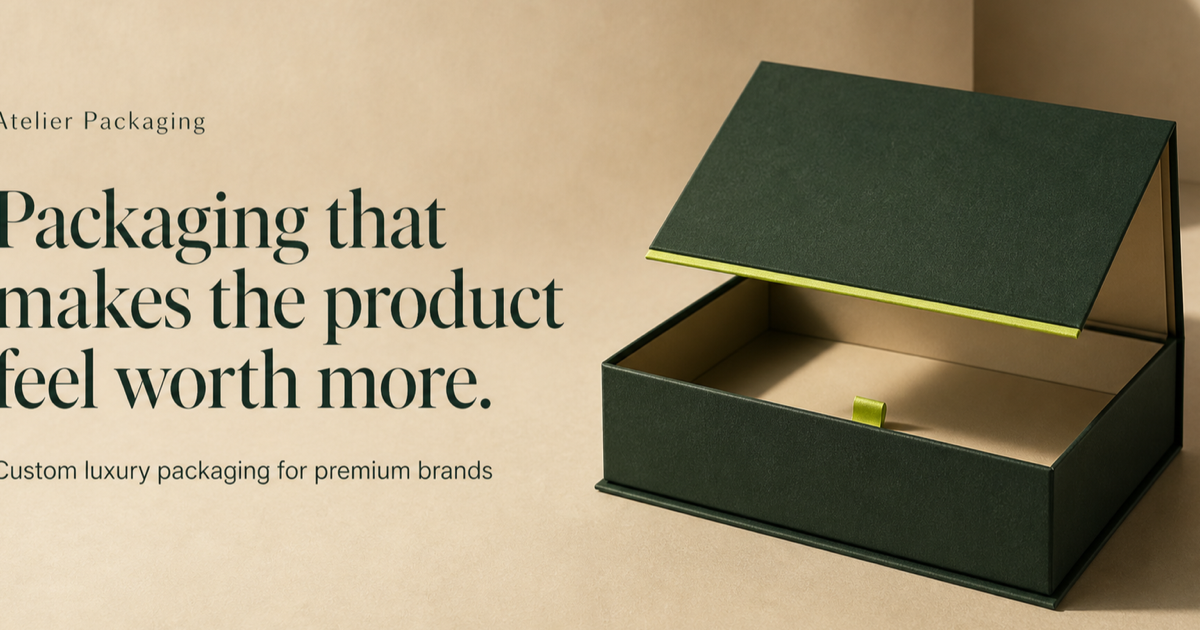
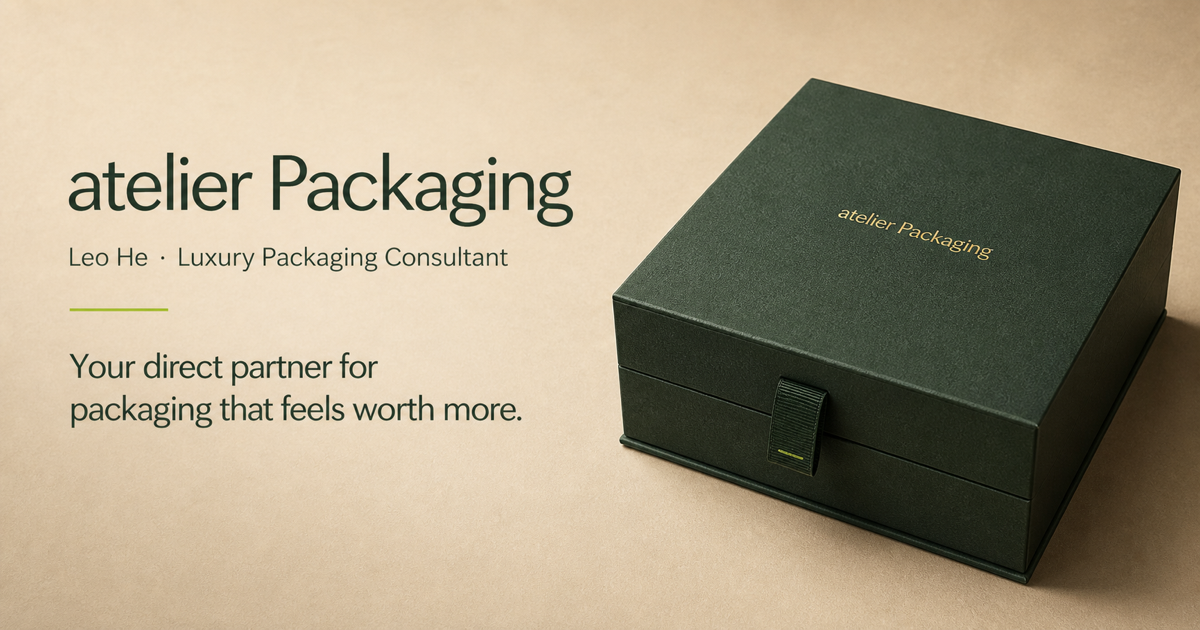
Personalize site for Leo He and add work showcase

diff --git a/app/page.tsx b/app/page.tsx
@@ -14,8 +14,9 @@ const faqs = [
 
 const structuredData = {
   '@context': 'https://schema.org', '@graph': [
-    { '@type': 'Organization', name: 'Atelier Packaging', description: 'Custom luxury packaging manufacturer for premium brands', url: 'https://example.com' },
-    { '@type': 'Service', name: 'High-end Custom Packaging', provider: { '@type': 'Organization', name: 'Atelier Packaging' }, areaServed: 'Worldwide', serviceType: ['Luxury rigid boxes', 'Premium folding cartons', 'Bespoke paper bags', 'Custom inserts'] },
+    { '@type': 'Organization', name: 'atelier Packaging', description: 'High-end custom packaging for premium brands', url: 'https://atelier-luxury-packaging.alexanderhe1212.chatgpt.site', email: 'alexanderhe1212@gmail.com' },
+    { '@type': 'Person', name: 'Leo He', jobTitle: 'Luxury Packaging Consultant', worksFor: { '@type': 'Organization', name: 'atelier Packaging' }, email: 'alexanderhe1212@gmail.com', telephone: '+86 17207110964' },
+    { '@type': 'Service', name: 'High-end Custom Packaging', provider: { '@type': 'Person', name: 'Leo He' }, areaServed: 'Worldwide', serviceType: ['Luxury rigid boxes', 'Premium folding cartons', 'Bespoke paper bags', 'Custom inserts'] },
     { '@type': 'FAQPage', mainEntity: faqs.map(([q, a]) => ({ '@type': 'Question', name: q, acceptedAnswer: { '@type': 'Answer', text: a } })) },
   ],
 };
@@ -25,31 +26,36 @@ export default function Home() {
     <main>
       <script type="application/ld+json" dangerouslySetInnerHTML={{ __html: JSON.stringify(structuredData) }} />
       <nav className="nav" aria-label="Primary navigation">
-        <a className="brand" href="#top"><span>AP</span> Atelier Packaging</a>
-        <div className="navlinks"><a href="#solutions">Solutions</a><a href="#process">Process</a><a href="#faq">FAQ</a><a href="#contact">Contact</a></div>
-        <a className="button small" href="#contact">Start a project</a>
+        <a className="brand" href="#top"><span>AP</span> atelier Packaging</a>
+        <div className="navlinks"><a href="#solutions">Solutions</a><a href="#work">Work</a><a href="#process">Process</a><a href="#faq">FAQ</a><a href="#contact">Contact</a></div>
+        <a className="button small" href="https://wa.me/8617207110964?text=Hi%20Leo%2C%20I%20have%20a%20custom%20packaging%20project." target="_blank" rel="noreferrer">WhatsApp Leo</a>
       </nav>
 
       <section className="hero" id="top">
         <div className="hero-copy">
-          <p className="eyebrow">Custom luxury packaging · Made for brands</p>
-          <h1>Packaging that makes the product feel <em>worth more.</em></h1>
-          <p className="lede">High-end packaging, made to order for brands that care about presentation, protection and every detail of the unboxing experience.</p>
-          <div className="actions"><a className="button" href="#contact">Request a quote <span>↗</span></a><a className="text-link" href="#solutions">Explore structures →</a></div>
-          <dl className="stats"><div><dt>15+</dt><dd>Years of craft</dd></div><div><dt>30+</dt><dd>Export markets</dd></div><div><dt>100%</dt><dd>Custom made</dd></div></dl>
+          <p className="eyebrow">Leo He · Luxury Packaging Consultant</p>
+          <h1>Your direct partner for packaging that feels <em>worth more.</em></h1>
+          <p className="lede">I help premium brands turn product ideas into high-end custom boxes, bags and inserts—from the first brief through sampling and production.</p>
+          <div className="actions"><a className="button" href="https://wa.me/8617207110964?text=Hi%20Leo%2C%20I%20have%20a%20custom%20packaging%20project." target="_blank" rel="noreferrer">Message Leo <span>↗</span></a><a className="text-link" href="#solutions">Explore structures →</a></div>
+          <dl className="stats"><div><dt>1:1</dt><dd>Direct support</dd></div><div><dt>100%</dt><dd>Custom made</dd></div><div><dt>L × W × H</dt><dd>Quote-ready details</dd></div></dl>
         </div>
         <div className="hero-art" aria-label="Premium rigid box concept"><div className="box-lid"><span>YOUR<br/>BRAND</span></div><div className="box-base"></div><p>01 / RIGID BOX</p></div>
       </section>
 
       <section className="intro" aria-labelledby="intro-title">
-        <p className="section-kicker">Built around your product</p>
-        <h2 id="intro-title">Not just a beautiful box.<br/><i>A complete packaging solution.</i></h2>
-        <p>We align structure, materials, insert, print and finishes so your packaging protects the product, presents the brand and remains realistic to manufacture.</p>
+        <p className="section-kicker">Work directly with Leo</p>
+        <h2 id="intro-title">One sales contact.<br/><i>A complete packaging solution.</i></h2>
+        <p>I coordinate structure, materials, insert, print and finishes so your packaging protects the product, presents the brand and remains realistic to manufacture.</p>
       </section>
 
       <section className="solutions" id="solutions" aria-labelledby="solutions-title">
         <div className="section-head"><div><p className="section-kicker">Our capabilities</p><h2 id="solutions-title">Choose the right structure</h2></div><p>Start with your product dimensions, quantity and target presentation. We will help narrow the structure before sampling and formal pricing.</p></div>
         <div className="solution-grid">{solutions.map((item) => <article className={`solution-card ${item.tone}`} key={item.title}><span>{item.n}</span><div className="mini-box" aria-hidden="true"></div><h3>{item.title}</h3><p>{item.copy}</p><a href="#contact" aria-label={`Discuss ${item.title}`}>Discuss this structure →</a></article>)}</div>
+      </section>
+
+      <section className="work" id="work" aria-labelledby="work-title">
+        <div className="work-heading"><div><p className="section-kicker">Selected work direction</p><h2 id="work-title">Luxury structures,<br/><i>considered in every detail.</i></h2></div><p>Original concept imagery showing the structures, materials and presentation standards I can help develop. These are capability concepts, not claimed client projects.</p></div>
+        <figure><img src="/selected-work-concepts.png" alt="Four original high-end packaging concepts: perfume rigid box, jewelry drawer box, cosmetics cartons and custom insert"/><figcaption><span>Concept showcase · No third-party brands</span><span>Rigid box / drawer box / folding carton / insert</span></figcaption></figure>
       </section>
 
       <section className="process" id="process" aria-labelledby="process-title">
@@ -63,11 +69,11 @@ export default function Home() {
       </section>
 
       <section className="contact" id="contact" aria-labelledby="contact-title">
-        <div><p className="section-kicker light">Start a project</p><h2 id="contact-title">Tell us what<br/>you need to pack.</h2><p>For the fastest first review, include 3–5 priority SKUs, finished dimensions and estimated order volume.</p></div>
-        <form action="mailto:sales@yourdomain.com" method="post" encType="text/plain"><label>Name / Company<input required name="name" autoComplete="organization" /></label><label>Work email<input required type="email" name="email" autoComplete="email" /></label><label>Packaging type<select name="type" defaultValue="Rigid box"><option>Rigid box</option><option>Folding carton</option><option>Paper bag</option><option>Corrugated box</option><option>Not sure yet</option></select></label><label>Project details<textarea required name="details" rows={4} placeholder="Product size, box size, quantity, materials, finishes and delivery country" /></label><button className="button" type="submit">Prepare email <span>↗</span></button><small>This free version opens your email app. Replace the placeholder address before launch.</small></form>
+        <div><p className="section-kicker light">Contact Leo He</p><h2 id="contact-title">Tell me what<br/>you need to pack.</h2><p>For the fastest first review, include 3–5 priority SKUs, finished dimensions and estimated order volume.</p><div className="direct-contact"><a href="mailto:alexanderhe1212@gmail.com">alexanderhe1212@gmail.com</a><a href="https://wa.me/8617207110964?text=Hi%20Leo%2C%20I%20have%20a%20custom%20packaging%20project." target="_blank" rel="noreferrer">WhatsApp: +86 17207110964</a></div></div>
+        <form action="mailto:alexanderhe1212@gmail.com" method="post" encType="text/plain"><label>Name / Company<input required name="name" autoComplete="organization" /></label><label>Work email<input required type="email" name="email" autoComplete="email" /></label><label>Packaging type<select name="type" defaultValue="Rigid box"><option>Rigid box</option><option>Folding carton</option><option>Paper bag</option><option>Custom insert</option><option>Not sure yet</option></select></label><label>Project details<textarea required name="details" rows={4} placeholder="Product size, box size, quantity, materials, finishes and delivery country" /></label><button className="button" type="submit">Email Leo <span>↗</span></button><small>Your email app will open with the project information addressed to Leo.</small></form>
       </section>
 
-      <footer><a className="brand" href="#top"><span>AP</span> Atelier Packaging</a><p>Custom luxury packaging for premium brands.</p><a href="#top">Back to top ↑</a></footer>
+      <footer><a className="brand" href="#top"><span>AP</span> atelier Packaging</a><p>Leo He · Luxury Packaging Consultant</p><a href="#top">Back to top ↑</a></footer>
     </main>
   );
 }

diff --git a/app/globals.css b/app/globals.css
@@ -6,3 +6,5 @@
 .intro{padding:130px 8vw;display:grid;grid-template-columns:1fr 2.2fr 1fr;gap:5vw;border-bottom:1px solid var(--line);align-items:start}.section-kicker{text-transform:uppercase;letter-spacing:.2em;font-size:10px;font-weight:700;margin:0 0 25px}.intro h2,.section-head h2,.process h2,.faq h2,.contact h2{font:400 clamp(42px,5.5vw,80px)/1 Georgia,serif;letter-spacing:-.04em;margin:0}.intro h2 i,.process h2 i{font-weight:400;color:#778078}.intro>p:last-child,.section-head>p,.faq-note{line-height:1.7;color:#687269;font-size:14px}.solutions{padding:120px 5vw}.section-head{display:flex;align-items:end;justify-content:space-between;margin-bottom:55px;padding:0 3vw}.section-head>p{max-width:390px}.solution-grid{display:grid;grid-template-columns:repeat(4,1fr)}.solution-card{min-height:520px;padding:28px;display:flex;flex-direction:column;border-right:1px solid rgba(0,0,0,.1)}.solution-card>span{font:12px Georgia}.solution-card h3{font:30px Georgia;margin:0 0 14px}.solution-card p{font-size:13px;line-height:1.6;min-height:65px}.solution-card a{font-size:11px;font-weight:700;margin-top:28px}.sage{background:#b9c0af}.sand{background:#d6cfbd}.clay{background:#b9937c}.gold{background:#c6ab68}.mini-box{width:63%;aspect-ratio:1;margin:auto;position:relative;background:#ece8dd;transform:skewY(-7deg);box-shadow:12px 20px 25px rgba(0,0,0,.17)}.mini-box:after{content:"";position:absolute;inset:15%;border:1px solid rgba(0,0,0,.25)}.process{background:var(--green);color:#f2f0e8;padding:130px 8vw;display:grid;grid-template-columns:1fr 1fr;gap:8vw}.section-kicker.light{color:#bcc8be}.process ol{list-style:none;margin:0;padding:0}.process li{display:grid;grid-template-columns:50px 1fr;gap:15px;padding:25px 0;border-top:1px solid rgba(255,255,255,.2)}.process li b{font:13px Georgia;color:var(--lime)}.process li span{font-size:13px;line-height:1.6;color:#bfc7c1}.process li strong{display:block;color:#fff;font:24px Georgia;margin-bottom:8px}.faq{padding:130px 8vw;display:grid;grid-template-columns:.8fr 1.2fr;gap:10vw}.faq-note{max-width:400px;margin-top:30px}.faq-list details{border-top:1px solid var(--line);padding:25px 0}.faq-list summary{cursor:pointer;list-style:none;font:20px Georgia;display:flex;justify-content:space-between}.faq-list summary span{font:24px Arial}.faq-list details p{max-width:650px;line-height:1.7;color:#667168;font-size:14px}.contact{background:#18251d;color:#f0eee5;padding:120px 8vw;display:grid;grid-template-columns:1fr 1fr;gap:10vw}.contact>div>p:last-child{max-width:440px;line-height:1.7;color:#b7c1b9}.contact form{display:grid;grid-template-columns:1fr 1fr;gap:22px}.contact label{display:flex;flex-direction:column;gap:10px;font-size:10px;text-transform:uppercase;letter-spacing:.14em}.contact label:nth-child(4){grid-column:1/-1}.contact input,.contact select,.contact textarea{background:transparent;border:0;border-bottom:1px solid #6b776d;color:#fff;padding:10px 0;font:15px Arial;outline:none}.contact select option{color:#111}.contact textarea{resize:vertical}.contact button{border:0;cursor:pointer;width:max-content}.contact small{grid-column:1/-1;color:#8f9b92}footer{display:flex;justify-content:space-between;align-items:center;padding:45px 5vw;font-size:12px}footer p{color:#6d766f}
 @media(max-width:900px){.intro{grid-template-columns:1fr;padding:90px 24px}.solution-grid{grid-template-columns:1fr 1fr}.process,.faq,.contact{grid-template-columns:1fr;padding:90px 24px}.section-head{align-items:start;flex-direction:column;gap:25px;padding:0}.solutions{padding:90px 24px}.contact form{grid-template-columns:1fr}.contact label:nth-child(4){grid-column:auto}footer{align-items:flex-start;flex-direction:column;gap:22px}.solution-card{min-height:450px}}
 @media(max-width:560px){.solution-grid{grid-template-columns:1fr}.solution-card{min-height:470px}.intro h2,.section-head h2,.process h2,.faq h2,.contact h2{font-size:46px}}
+.work{padding:125px 8vw;background:#ded8c9}.work-heading{display:grid;grid-template-columns:1.5fr .7fr;gap:10vw;align-items:end;margin-bottom:55px}.work-heading h2{font:400 clamp(42px,5.5vw,80px)/1 Georgia,serif;letter-spacing:-.04em;margin:0}.work-heading h2 i{font-weight:400;color:#767d73}.work-heading>p{font-size:14px;line-height:1.7;color:#5f6961}.work figure{margin:0}.work img{display:block;width:100%;aspect-ratio:1.78;object-fit:cover}.work figcaption{display:flex;justify-content:space-between;gap:20px;padding-top:14px;font-size:10px;text-transform:uppercase;letter-spacing:.12em;color:#626a63}.direct-contact{display:flex;flex-direction:column;align-items:flex-start;gap:10px;margin-top:32px}.direct-contact a{border-bottom:1px solid #718077;padding-bottom:4px;font-size:14px}.contact>div>p{max-width:440px;line-height:1.7;color:#b7c1b9}
+@media(max-width:900px){.work{padding:90px 24px}.work-heading{grid-template-columns:1fr;gap:25px}.work figcaption{align-items:flex-start;flex-direction:column}}

diff --git a/app/layout.tsx b/app/layout.tsx
@@ -3,11 +3,12 @@ import './globals.css';
 
 export const metadata: Metadata = {
   metadataBase: new URL('https://example.com'),
-  title: 'Atelier Packaging | High-end Custom Packaging',
-  description: 'High-end custom rigid boxes, premium folding cartons, bespoke paper bags and inserts for luxury brands.',
+  title: 'Leo He | High-end Custom Packaging Consultant',
+  description: 'Work directly with Leo He at atelier Packaging for luxury rigid boxes, premium folding cartons, bespoke paper bags and custom inserts.',
+  authors: [{ name: 'Leo He', url: 'mailto:alexanderhe1212@gmail.com' }],
   keywords: ['high-end custom packaging', 'luxury rigid boxes', 'custom gift boxes', 'premium packaging manufacturer'],
-  openGraph: { title: 'Packaging that makes the product feel worth more.', description: 'High-end custom packaging for premium brands.', images: ['/og.png'], type: 'website' },
-  twitter: { card: 'summary_large_image', title: 'Packaging that makes the product feel worth more.', description: 'High-end custom packaging for premium brands.', images: ['/og.png'] },
+  openGraph: { title: 'Leo He | Your High-end Custom Packaging Partner', description: 'Direct, one-to-one packaging support for premium brands.', images: ['/og.png'], type: 'website' },
+  twitter: { card: 'summary_large_image', title: 'Leo He | Your High-end Custom Packaging Partner', description: 'Direct, one-to-one packaging support for premium brands.', images: ['/og.png'] },
 };
 
 export default function RootLayout({
